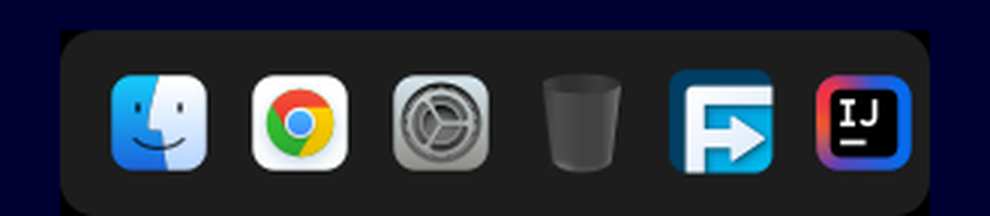
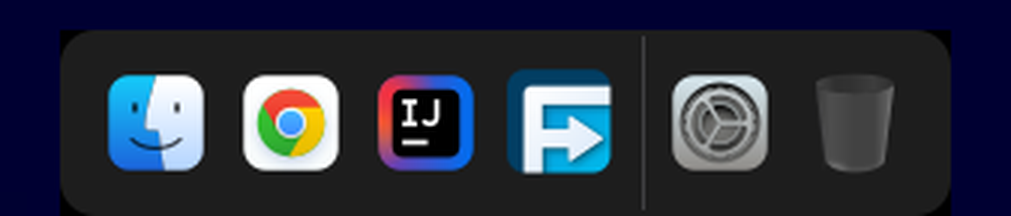
Dock: add separator, new default order and measured width
The default dock order is files, browser, IDE, downloads, a separator, settings, trash. A '|' entry in dock.apps draws the separator: the apps are split into two launcher groups with the panel's lined spacer between them, and the spacer line is replaced by the 11x41 separator shape from the design kit (assets/dock/dock-separator.svg). Plugin instances with a numeric suffix get an explicit type= key, which LXQt requires. Dock width is computed from the number of apps (measured spacing: 45 px per app, 8 px extra for the separator), and the launcher margin is 3 px so the spacing matches the design kit's 9 px gap.

Changed region(s): [[0.2424, 0.3056, 0.9394, 0.8333], [0.0909, 0.3333, 0.2121, 0.8056]]

diff --git a/lib/theme.py b/lib/theme.py
@@ -201,7 +201,7 @@ def configure():
     cur["menubar"]["enabled"] = ask("Install menu bar (yes/no)", "yes" if cur["menubar"]["enabled"] else "no", yesno)
     cur["dock"]["enabled"] = ask("Install dock (yes/no)", "yes" if cur["dock"]["enabled"] else "no", yesno)
     if cur["dock"]["enabled"]:
-        apps = ask("Dock apps, comma separated (files,browser,settings,trash,downloads,ide)",
+        apps = ask("Dock apps in order, comma separated, "|" = separator (files,browser,ide,downloads,|,settings,trash)",
                    ",".join(cur["dock"]["apps"]))
         cur["dock"]["apps"] = [a.strip() for a in apps.split(",") if a.strip()]
     errs = validate(cur)
